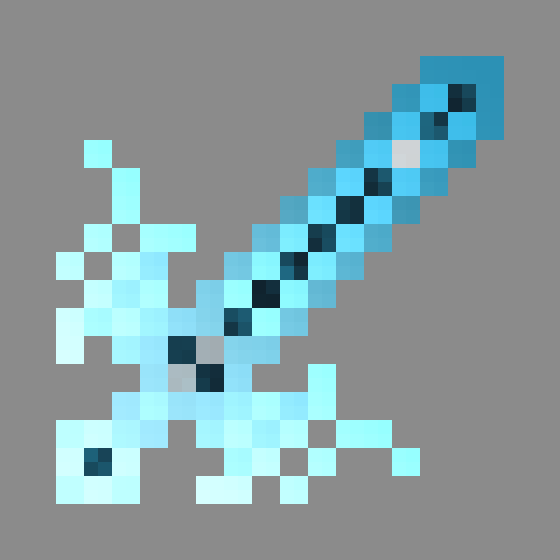
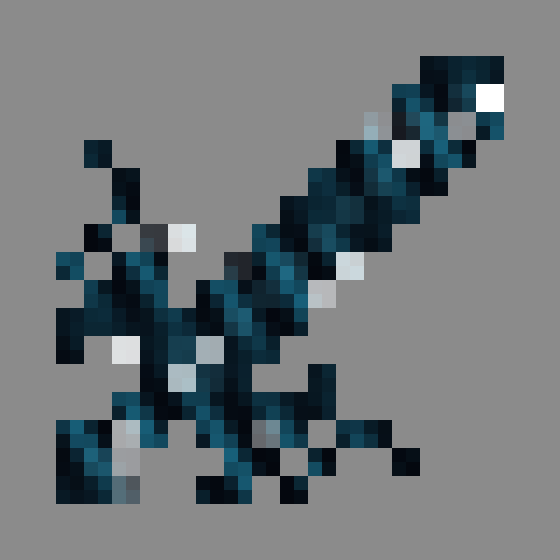
剑：全部像素改成星空（含轮廓）
- 轮廓像素不再画金属渐变，和内部一样走 spacePixel：整把剑就是一块"窗口"，
  形状只由 alpha 蒙版定义（与原图 0/256 不一致）。
- 最外圈只做轻微提亮（0x2f8fae 55%），保证剪影在浅色背景上读得出来，不新增像素。
- 仍为单帧静态，无 mcmeta。

Changed region(s): [[0.0911, 0.0911, 0.9107, 0.9107]]

diff --git a/tools/GenFx.java b/tools/GenFx.java
@@ -234,7 +234,9 @@ public final class GenFx {
                     int out;
 
                     if (locked[y][x]) {
-                        out = 0xFF000000 | edgePixel(x, y, px);   // 描边重画（位置不变）
+                        // 轮廓像素也一起镂空放星空：无尽贪婪那种整块"窗口"，不留金属描边。
+                        // 只把贴边的那一圈调亮一点，保住剪影的可读性。
+                        out = 0xFF000000 | spacePixel(x, y, phase, edgePx[y][x]);
                     } else if (opaque[y][x]) {
                         out = 0xFF000000 | spacePixel(x, y, phase, edgePx[y][x]);
                     } else if (glow[y][x] > 0.002) {
@@ -264,7 +266,7 @@ public final class GenFx {
                     boolean gotOpaque = ((got >>> 24) & 255) != 0;
                     boolean wantOpaque = opaque[y][x] || (outside[y][x] && glow[y][x] > 0.002);
                     if (gotOpaque != wantOpaque) badBorder++;
-                    if (locked[y][x] && got != (0xFF000000 | edgePixel(x, y, base[y][x]))) badBorder++;
+                    if (locked[y][x] && got != (0xFF000000 | spacePixel(x, y, 2 * Math.PI * f / FRAMES, edgePx[y][x]))) badBorder++;
                 }
             }
         }
@@ -274,9 +276,9 @@ public final class GenFx {
                 int px = base[y][x];
                 int rerender;
                 if (locked[y][x]) {
-                    rerender = 0xFF000000 | edgePixel(x, y, px);
+                    rerender = 0xFF000000 | spacePixel(x, y, 0.0, edgePx[y][x]);
                 } else if (opaque[y][x]) {
-                    rerender = 0xFF000000 | spacePixel(x, y, 2 * Math.PI, edgePx[y][x]);
+                    rerender = 0xFF000000 | spacePixel(x, y, 0.0, edgePx[y][x]);
                 } else if (glow[y][x] > 0.002) {
                     rerender = glowPixel(x, y, 2 * Math.PI, px, glow[y][x]);
                 } else {
@@ -516,6 +518,20 @@ public final class GenFx {
         // 否则整把剑会变成一个平涂的剪影，没有厚度。
         double shade = 0.42 + 1.00 * lum(original);
         return scaleRgb(c, shade);
+    }
+    /**
+     * 轮廓像素的颜色：同样是星空，但整体提亮 + 沿剑身渐变，
+     * 让剪影在浅色背景上仍然读得出来（不新增像素，只是把这一圈画亮）。
+     */
+    static int rimPixel(int x, int y, int original) {
+        double u = (x - MARGIN + 0.5) / SCALE;
+        double v = (y - MARGIN + 0.5) / SCALE;
+        double s01 = clamp01((((u - v) * 0.70710678) + 11.0) / 22.0);
+
+        // 底色仍是深空，但明显偏亮，靠近剑尖更亮
+        int c = lerp(0x2a7f9c, 0x9fe8ff, 1.0 - smooth(0.0, 1.0, s01));
+        // 用原图亮度做明暗，保留体积
+        return scaleRgb(c, 0.45 + 0.85 * lum(original));
     }
     /**
      * 剑身内部的一个像素：这里**不混原图颜色**，整块换成"空间"——
